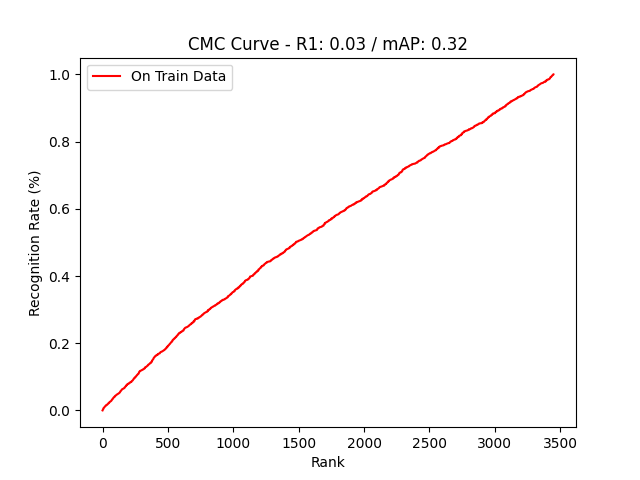
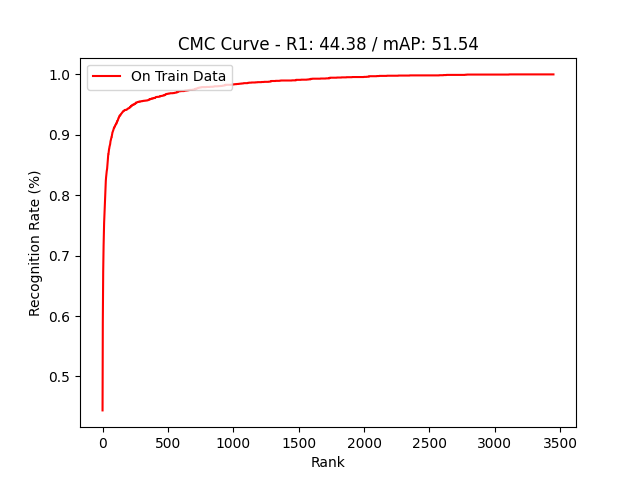
123

diff --git a/benchmark.py b/benchmark.py
@@ -36,7 +36,8 @@ if label_mode == 'cate_int':
     use_cate_int = True
 
 model_weight = "good_rank_1_model.h5"
-n_labels = 1913
+# model_weight = "best_model_motor_reid_EfficientNetV2S_256_128_3827.h5"
+n_labels = 3827
 
 strategy = auto_select_accelerator()
 
@@ -83,32 +84,26 @@ valid_n_images_A = len(Y_A)
 valid_dataset_A = build_dataset_from_X_Y(X_A, None, all_class, None, "cate", img_size,
                                          BATCH_SIZE, valid_repeat, valid_shuffle, valid_augment)
 embs_A = model.predict(valid_dataset_A)
-
-norm_embs_A = sklearn.preprocessing.normalize(embs_A)
-
-print("norm_embs_A.shape:", norm_embs_A.shape)
+# embs_A = sklearn.preprocessing.normalize(embs_A)
 
 valid_n_images_B = len(Y_B)
 valid_dataset_B = build_dataset_from_X_Y(X_B, None, all_class, None, "cate", img_size,
                                          BATCH_SIZE, valid_repeat, valid_shuffle, valid_augment)
 embs_B = model.predict(valid_dataset_B)
+# embs_B = sklearn.preprocessing.normalize(embs_B)
 
-norm_embs_B = sklearn.preprocessing.normalize(embs_B)
-
-print("norm_embs_B.shape:", norm_embs_B.shape)
-
-# cosine_mtr = np.dot(norm_embs, norm_embs.T)
-
-probe_features = norm_embs_A
-gallery_features = norm_embs_B
+probe_features = embs_A
+gallery_features = embs_B
 metric = 'cosine'
 ids_camA = np.expand_dims(Y_A, 1)
 ids_camB = np.expand_dims(Y_B, 1)
 
 cmc_curve = np.zeros(gallery_features.shape[0])
 ap_array = []
-# all_dist = scipy.spatial.distance.cdist(probe_features, gallery_features, metric=metric)
-all_dist = np.dot(probe_features, gallery_features.T)
+all_dist = scipy.spatial.distance.cdist(probe_features, gallery_features, metric=metric)
+
+# all_dist = np.dot(probe_features, gallery_features.T)
+# all_dist = -all_dist
 
 print(all_dist)
 print(all_dist.shape)

diff --git a/custom_callbacks.py b/custom_callbacks.py
@@ -66,6 +66,11 @@ class CustomValidate(tf.keras.callbacks.Callback):
         self.ids_camA = np.expand_dims(Y_A, 1)
         self.ids_camB = np.expand_dims(Y_B, 1)
 
+        try:
+            os.remove("valid_rank_1_mAP.txt")
+        except:
+            pass
+
     def on_train_begin(self, logs=None):
         self.best_mAP = 0
         self.best_rank_1 = 0
@@ -75,18 +80,15 @@ class CustomValidate(tf.keras.callbacks.Callback):
 
         embs_A = emb_model.predict(self.valid_dataset_A, verbose=0)
 
-        norm_embs_A = sklearn.preprocessing.normalize(embs_A)
-
         embs_B = emb_model.predict(self.valid_dataset_B, verbose=0)
 
-        norm_embs_B = sklearn.preprocessing.normalize(embs_B)
-
-        probe_features = norm_embs_A
-        gallery_features = norm_embs_B
+        probe_features = embs_A
+        gallery_features = embs_B
 
         cmc_curve = np.zeros(gallery_features.shape[0])
         ap_array = []
-        all_dist = np.dot(probe_features, gallery_features.T)
+        metric = 'cosine'
+        all_dist = scipy.spatial.distance.cdist(probe_features, gallery_features, metric=metric)
 
         for idx, p_dist in enumerate(all_dist):
             rank_p = np.argsort(p_dist,axis=None)
@@ -103,11 +105,8 @@ class CustomValidate(tf.keras.callbacks.Callback):
         cmc_curve = np.cumsum(cmc_curve)/probe_features.shape[0]
         rank_1 = cmc_curve[0]
         mAP = np.mean(ap_array)
-        
-        print("\n" + "*"*10)
-        print("rank 1:", rank_1)
-        print("mAP:", mAP)
-        print("*"*10)
+    
+        print("\nrank 1:", rank_1, " mAP:", mAP)
 
         with open("valid_rank_1_mAP.txt", "a+") as f:
             f.write(f"Epoch: {epoch} ~ Rank 1: " + str(rank_1) + f" ~ mAP: " + str(mAP) + "\n")

diff --git a/model.py b/model.py
@@ -66,32 +66,28 @@ def create_model(base_name, input_shape, do_dim, atrous_dim, dilation_rates, fin
     backbone_layer_names = get_out_layers(base_name)
     backbone_layers = [base.get_layer(layer_name).output for layer_name in backbone_layer_names]
 
-    x = GlobalAveragePooling2D()(backbone_layers[-1])
-
-    # list_features = []
-    # for backbone_layer in backbone_layers:
-    #     f = atrous_conv(backbone_layer, atrous_dim, dilation_rates)
-    #     f = Concatenate()(f)
-    #     f = self_attention(f, do_dim)
+    list_features = []
+    for backbone_layer in backbone_layers:
+        f = atrous_conv(backbone_layer, atrous_dim, dilation_rates)
+        f = Concatenate()(f)
+        f = self_attention(f, do_dim)
         
-    #     skip = conv(backbone_layer, do_dim, 1)
-    #     f = f + skip
-    #     f = GlobalAveragePooling2D()(f)
+        skip = conv(backbone_layer, do_dim, 1)
+        f = f + skip
+        f = GlobalAveragePooling2D()(f)
 
-    #     list_features.append(f)
+        list_features.append(f)
 
-    # x = Concatenate()(list_features)
+    x = Concatenate()(list_features)
 
-    # x = Dense(do_dim, activation='swish')(x)
-    # x = Dropout(final_dropout)(x)
-    # x = Dense(do_dim)(x)
-    # x = Dropout(final_dropout)(x)
+    x = Dense(do_dim, activation='swish')(x)
+    x = Dropout(final_dropout)(x)
+    x = Dense(do_dim)(x)
+    x = Dropout(final_dropout)(x)
 
     if have_emb_layer:
         x = Dense(emb_dim, use_bias=False, name='bottleneck')(x)
         x = BatchNormalization(name='bottleneck_bn')(x)
-
-    model = Model(base.input, x)
     
     if use_normdense:
         cate_output = NormDense(n_labels, name='cate_output', append_norm=append_norm)(x)

diff --git a/train.py b/train.py
@@ -41,7 +41,7 @@ X_train, Y_train = auto_split_data_from_X_Y(X_train, Y_train)
 
 X_valid, Y_valid, cams_test = get_paths_ids_more_dataset(filename='test_files.txt')
 
-Y_full = list(Y_train)
+Y_full = list(Y_train) + list(Y_valid)
 all_class = np.unique(Y_full)
 
 train_n_images = len(Y_train)
@@ -49,8 +49,8 @@ train_dataset = build_dataset_from_X_Y(X_train, Y_train, all_class, train_with_l
                                        BATCH_SIZE, train_repeat, train_shuffle, train_augment, im_size_before_crop)
 
 valid_n_images = len(Y_valid)
-valid_dataset = build_dataset_from_X_Y(X_valid, Y_valid, all_class, valid_with_labels, label_mode, img_size,
-                                       BATCH_SIZE, valid_repeat, valid_shuffle, valid_augment)
+# valid_dataset = build_dataset_from_X_Y(X_valid, Y_valid, all_class, valid_with_labels, label_mode, img_size,
+#                                        BATCH_SIZE, valid_repeat, valid_shuffle, valid_augment)
 
 n_labels = len(all_class)
 

diff --git a/callbacks.py b/callbacks.py
@@ -63,6 +63,6 @@ def get_callbacks(monitor, mode, save_path, _max_lr, _min_lr, _cos_anne_ep, save
 
     csv_logger = tf.keras.callbacks.CSVLogger('training.csv')
 
-    callbacks = [lr_schedule, csv_logger]
+    callbacks = [checkpoint, lr_schedule, csv_logger]
 
     return callbacks
